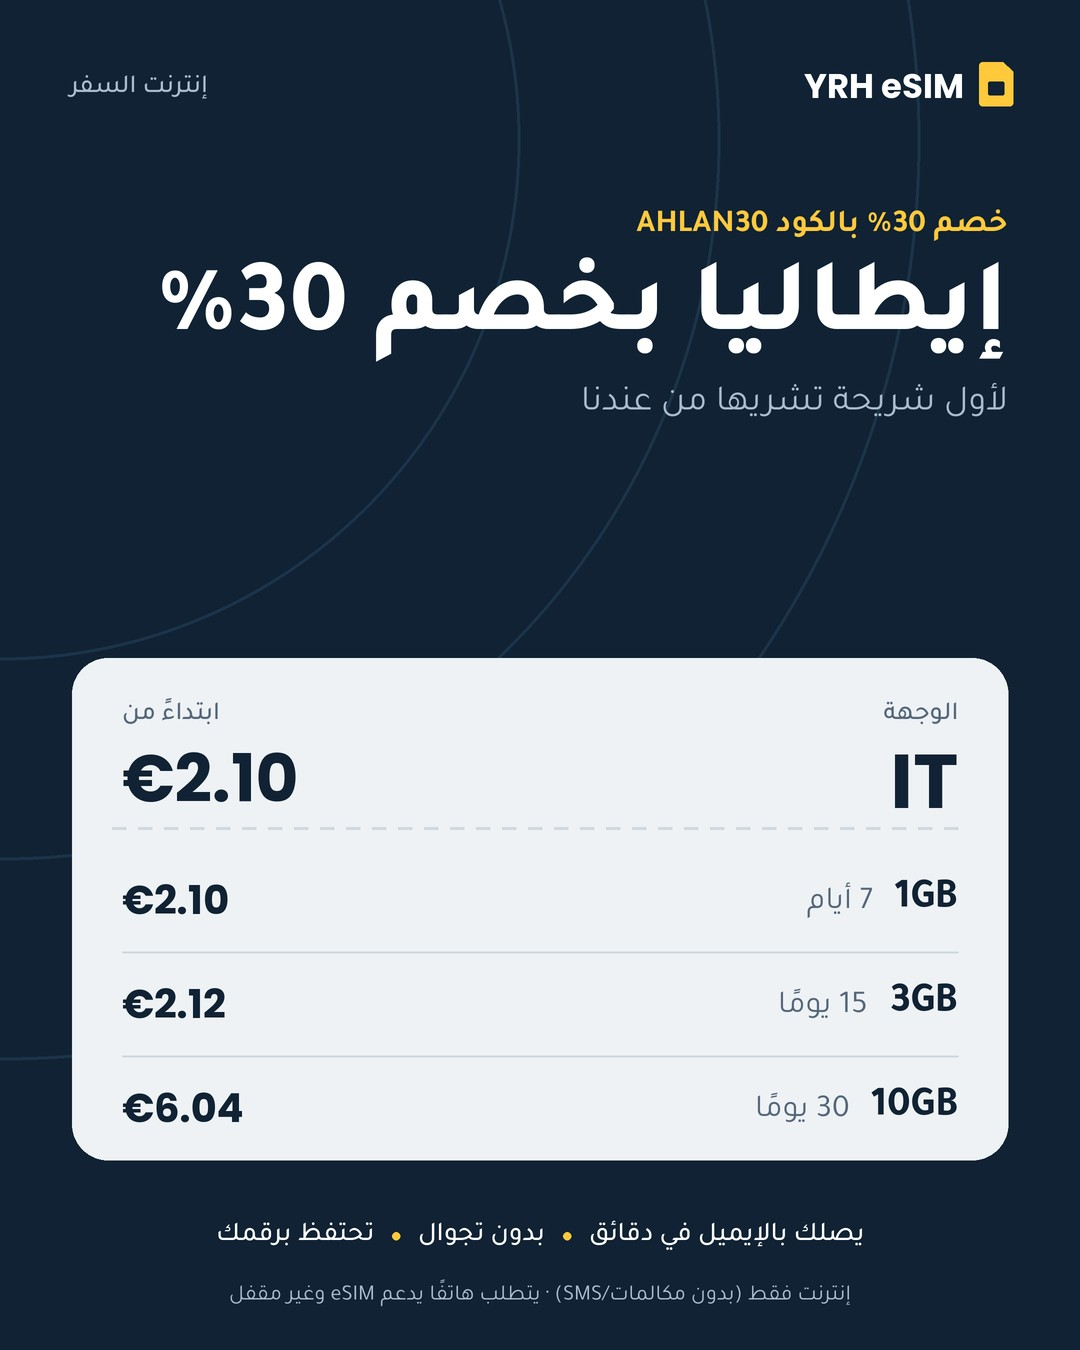
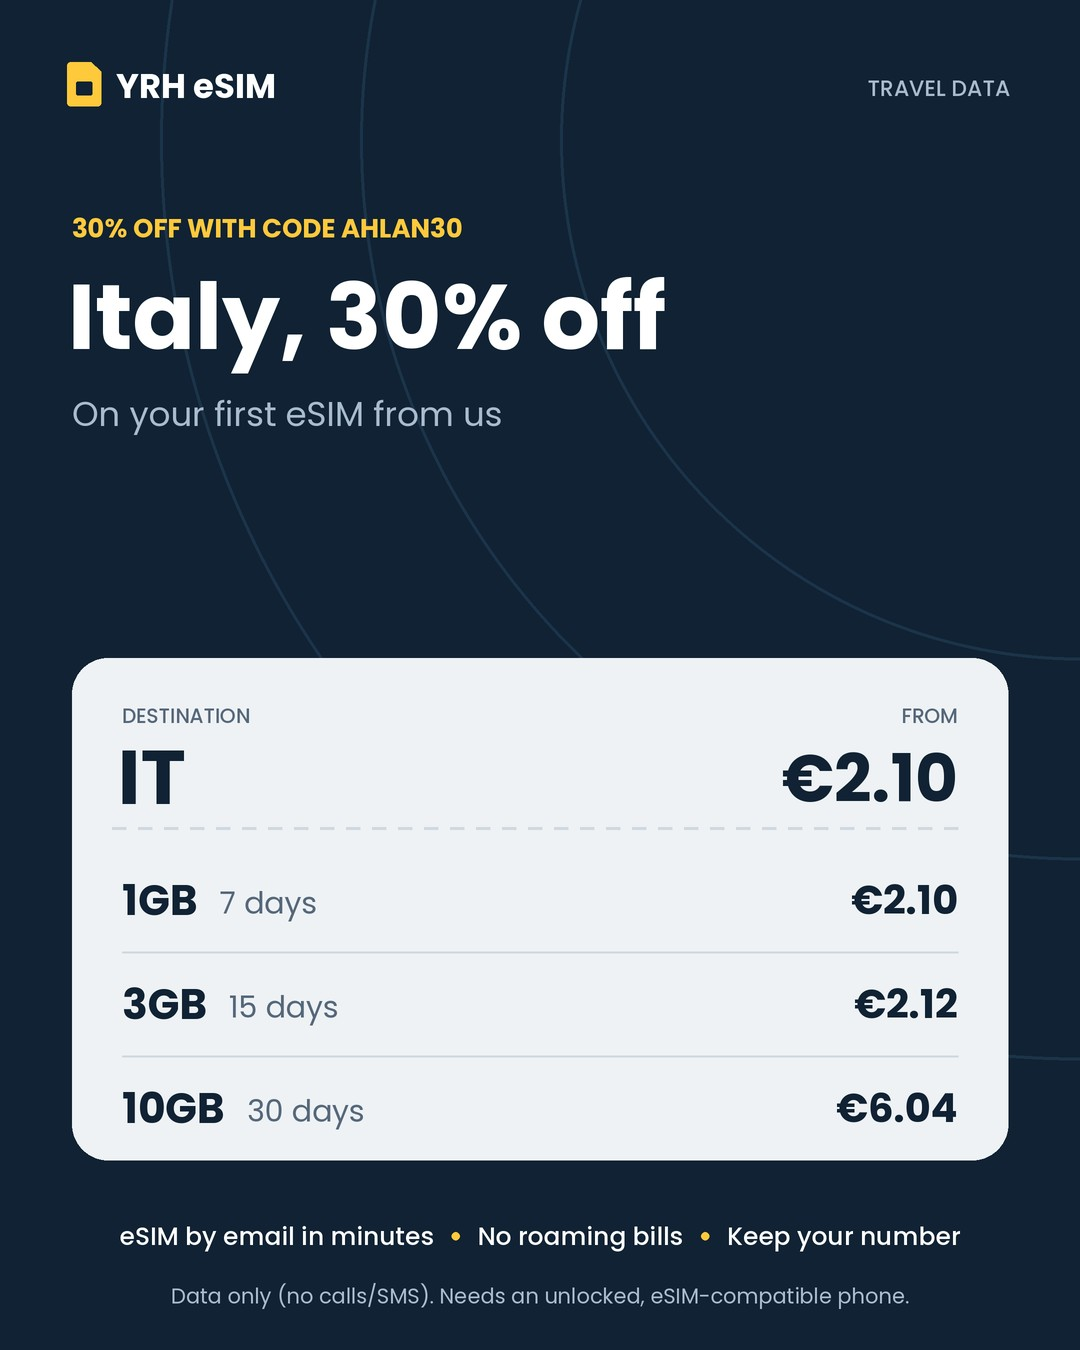
Switch remaining social posts (Oct 18 22:00 to Oct 26) to English
Claude-Session: https://claude.ai/code/session_01JBSgTFCFf4ru17KFUSM9zn

diff --git a/make_social_en.py b/make_social_en.py
@@ -1,0 +1,262 @@
+"""English social posts for YRH eSIM (replaces the remaining Arabic posts from Oct 18 22:00).
+Same 1080x1350 look as the Arabic set, left-to-right, Poppins.
+Files: social/YYYY-MM-DD-HH.jpg/.json (read by the Make "Social daily post" scenario).
+Run: python3 make_social_en.py"""
+from PIL import Image, ImageDraw, ImageFont
+import json, os
+
+HERE = os.path.dirname(os.path.abspath(__file__))
+F = '/usr/share/fonts/truetype/google-fonts/Poppins-%s.ttf'
+RAW = 'https://raw.githubusercontent.com/khaledkorichi34/yrh-esim-app-1/pinterest-assets/social/'
+SHOP = 'https://yrh.ai/products/'
+WA = '+34 642 377 474'
+OFFER = '🎁 30% off your first eSIM with code AHLAN30 (until Oct 31)'
+
+SS = 2
+W, H = 1080, 1350
+NAVY = (16, 34, 51)
+NAVY_SOFT = (27, 52, 74)
+YELLOW = (255, 201, 60)
+WHITE = (255, 255, 255)
+PAPER = (238, 242, 245)
+MUTED = (169, 188, 205)
+SLATE = (85, 103, 122)
+LINE = (208, 216, 224)
+
+
+def f(weight, size):
+    return ImageFont.truetype(F % weight, int(size * SS))
+
+
+def s(v):
+    return int(round(v * SS))
+
+
+def t(d, xy, txt, fnt, fill, anchor='la'):
+    d.text((s(xy[0]), s(xy[1])), txt, font=fnt, fill=fill, anchor=anchor)
+
+
+def tw(d, txt, fnt):
+    return d.textlength(txt, font=fnt) / SS
+
+
+def wrap(d, text, fnt, max_w):
+    words, lines, cur = text.split(), [], ''
+    for wd in words:
+        trial = (cur + ' ' + wd).strip()
+        if tw(d, trial, fnt) <= max_w or not cur:
+            cur = trial
+        else:
+            lines.append(cur)
+            cur = wd
+    if cur:
+        lines.append(cur)
+    return lines
+
+
+def sim(d, cx, cy, w):
+    cx, cy, w = s(cx), s(cy), s(w)
+    h = w * 1.28
+    x0, y0, x1, y1 = cx - w / 2, cy - h / 2, cx + w / 2, cy + h / 2
+    cut = w * 0.30
+    d.rounded_rectangle([x0, y0, x1, y1], radius=w * 0.10, fill=YELLOW)
+    d.polygon([(x1 - cut, y0 - 2), (x1 + 2, y0 - 2), (x1 + 2, y0 + cut)], fill=NAVY)
+    cw, ch = w * 0.46, w * 0.40
+    ccy = cy + h * 0.10
+    d.rounded_rectangle([cx - cw / 2, ccy - ch / 2, cx + cw / 2, ccy + ch / 2], radius=w * 0.05, fill=NAVY)
+
+
+def base():
+    img = Image.new('RGB', (W * SS, H * SS), NAVY)
+    d = ImageDraw.Draw(img)
+    for r in (520, 720, 920):
+        d.ellipse([s(W - r), s(-r + 140), s(W + r), s(r + 140)], outline=NAVY_SOFT, width=s(3))
+    sim(d, 84, 84, 34)
+    t(d, (116, 86), 'YRH eSIM', f('Bold', 34), WHITE, 'lm')
+    t(d, (W - 70, 88), 'TRAVEL DATA', f('Medium', 22), MUTED, 'rm')
+    return img, d
+
+
+def footer(d):
+    items = ['eSIM by email in minutes', 'No roaming bills', 'Keep your number']
+    fnt = f('Medium', 25)
+    gap = 44
+    widths = [tw(d, x, fnt) for x in items]
+    x = (W - sum(widths) - gap * (len(items) - 1)) / 2
+    for i, (txt, w) in enumerate(zip(items, widths)):
+        t(d, (x, 1236), txt, fnt, WHITE, 'lm')
+        x += w
+        if i < len(items) - 1:
+            cx = x + gap / 2
+            d.ellipse([s(cx - 4), s(1232), s(cx + 4), s(1240)], fill=YELLOW)
+            x += gap
+    t(d, (W / 2, 1296), 'Data only (no calls/SMS). Needs an unlocked, eSIM-compatible phone.', f('Regular', 21), MUTED, 'mm')
+
+
+def offer(kicker, title, sub, code, plans):
+    img, d = base()
+    L = 72
+    t(d, (L, 210), kicker.upper(), f('Bold', 26), YELLOW)
+    fnt = f('Bold', 92)
+    y = 252
+    for ln in wrap(d, title, fnt, W - 150):
+        t(d, (L - 4, y), ln, fnt, WHITE)
+        y += 104
+    y += 34
+    for ln in wrap(d, sub, f('Regular', 34), W - 150):
+        t(d, (L, y), ln, f('Regular', 34), MUTED)
+        y += 48
+    x0, x1, y1 = 72, W - 72, 1160
+    row_h = 104
+    y0 = y1 - 40 - row_h * len(plans) - 150
+    d.rounded_rectangle([s(x0), s(y0), s(x1), s(y1)], radius=s(36), fill=PAPER)
+    t(d, (x0 + 50, y0 + 44), 'DESTINATION', f('Medium', 20), SLATE)
+    t(d, (x0 + 46, y0 + 66), code, f('Bold', 76), NAVY)
+    t(d, (x1 - 50, y0 + 44), 'FROM', f('Medium', 20), SLATE, 'ra')
+    t(d, (x1 - 50, y0 + 74), '€' + plans[0][2], f('Bold', 66), NAVY, 'ra')
+    perf = y0 + 170
+    xx = x0 + 40
+    while xx < x1 - 40:
+        d.line([(s(xx), s(perf)), (s(xx + 14), s(perf))], fill=LINE, width=s(3))
+        xx += 26
+    ry = perf + 20
+    for i, (gb, days, price) in enumerate(plans):
+        cy = ry + row_h * i + row_h / 2
+        t(d, (x0 + 50, cy), gb, f('Bold', 42), NAVY, 'lm')
+        t(d, (x0 + 50 + tw(d, gb, f('Bold', 42)) + 22, cy + 3), days, f('Regular', 30), SLATE, 'lm')
+        t(d, (x1 - 50, cy), '€' + price, f('Bold', 40), NAVY, 'rm')
+        if i < len(plans) - 1:
+            d.line([(s(x0 + 50), s(cy + row_h / 2)), (s(x1 - 50), s(cy + row_h / 2))], fill=LINE, width=s(2))
+    footer(d)
+    return img
+
+
+def tip(kicker, title, points):
+    img, d = base()
+    L = 72
+    t(d, (L, 210), kicker.upper(), f('Bold', 26), YELLOW)
+    fnt = f('Bold', 80)
+    y = 252
+    for ln in wrap(d, title, fnt, W - 150):
+        t(d, (L - 4, y), ln, fnt, WHITE)
+        y += 92
+    y += 46
+    x0, x1 = 72, W - 72
+    box_h = min(190, (1170 - y - 20 * (len(points) - 1)) / len(points))
+    for i, p in enumerate(points):
+        d.rounded_rectangle([s(x0), s(y), s(x1), s(y + box_h)], radius=s(30), fill=PAPER)
+        cy = y + box_h / 2
+        d.ellipse([s(x0 + 44), s(cy - 42), s(x0 + 128), s(cy + 42)], fill=NAVY)
+        t(d, (x0 + 86, cy + 2), str(i + 1), f('Bold', 42), YELLOW, 'mm')
+        pf = f('Medium', 32)
+        lines = wrap(d, p, pf, x1 - x0 - 200)
+        ly = cy - (len(lines) - 1) * 22
+        for ln in lines:
+            t(d, (x0 + 160, ly), ln, pf, NAVY, 'lm')
+            ly += 44
+        y += box_h + 20
+    footer(d)
+    return img
+
+
+TAGS_IG = '#eSIM #travelesim #esimtravel #traveltips #Algeria #Morocco #Tunisia #Spain #roaming #travelhacks'
+TAGS_FB = '#eSIM #travelesim #traveltips #roaming'
+
+
+def caption(body, handle):
+    body = body + '\n\n' + OFFER
+    link = SHOP + handle if handle else 'https://yrh.ai'
+    ig = body + '\n\n🔗 Link in bio · 💬 WhatsApp ' + WA + '\n\n' + TAGS_IG
+    fb = body + '\n\n🛒 ' + link + '\n💬 WhatsApp ' + WA + '\n\n' + TAGS_FB
+    return ig, fb
+
+
+def save(stem, name, img, body, handle=None):
+    ig, fb = caption(body, handle)
+    out = os.path.join(HERE, 'social')
+    img.resize((W, H), Image.LANCZOS).save(os.path.join(out, stem + '.jpg'), quality=90)
+    with open(os.path.join(out, stem + '.json'), 'w', encoding='utf-8') as fh:
+        json.dump({'date': stem[:10], 'name': name, 'image': RAW + stem + '.jpg', 'ig': ig, 'fb': fb},
+                  fh, ensure_ascii=False, indent=1)
+    print(stem, name)
+
+
+def plan_lines(plans):
+    return '\n'.join('• %s · %s · €%s' % p for p in plans)
+
+
+def O(stem, name, handle, kicker, title, sub, code, plans, intro):
+    body = intro + '\n\n' + plan_lines(plans) + '\n\neSIM by email in minutes · Keep your number · Data only'
+    save(stem, name, offer(kicker, title, sub, code, plans), body, handle)
+
+
+def T(stem, name, kicker, title, points, intro, handle=None, numbered=True):
+    mark = (lambda i: '%d. ' % (i + 1)) if numbered else (lambda i: '• ')
+    body = intro + '\n\n' + '\n'.join(mark(i) + p for i, p in enumerate(points))
+    save(stem, name, tip(kicker, title, points), body, handle)
+
+
+def promo(stem, name, handle, title, sub, code, plans, intro):
+    off = [(gb, d, '%.2f' % (float(p) * 0.7)) for gb, d, p in plans]
+    lines = '\n'.join('• %s · %s · €%s → about €%s with AHLAN30' % (gb, d, p, o[2]) for (gb, d, p), o in zip(plans, off))
+    body = intro + '\n\n' + lines + '\n\nDiscounted prices are approximate and shown at checkout with the code.'
+    save(stem, name, offer('30% off with code AHLAN30', title, sub, code, off), body, handle)
+
+
+DAYS7, DAYS15, DAYS30 = '7 days', '15 days', '30 days'
+DZ_LONG = [('3GB', DAYS30, '5.57'), ('5GB', DAYS30, '8.73'), ('10GB', DAYS30, '15.33')]
+FR = [('1GB', DAYS7, '3.00'), ('3GB', DAYS15, '3.43'), ('10GB', DAYS30, '9.48')]
+IT = [('1GB', DAYS7, '3.00'), ('3GB', DAYS15, '3.03'), ('10GB', DAYS30, '8.63')]
+MA30 = [('1GB', DAYS7, '3.00'), ('3GB', DAYS30, '6.74'), ('5GB', DAYS30, '10.12')]
+TN30 = [('3GB', DAYS30, '5.45'), ('5GB', DAYS30, '8.53'), ('10GB', DAYS30, '15.57')]
+ES = [('1GB', DAYS7, '3.00'), ('3GB', DAYS15, '3.03'), ('10GB', DAYS30, '8.63')]
+
+
+def build():
+    # Oct 18, 22:00
+    T('2026-10-18-22', 'Android install', 'For Android users', 'Install an eSIM on Android',
+      ['Settings > Connections > SIM manager', 'Add eSIM > scan the QR code from your email',
+       'When you land, set it as your mobile data line'],
+      'Samsung or another Android phone? Here is how 👇', 'dz_package')
+    # Oct 19
+    T('2026-10-19-09', 'Question', 'Question of the day', 'When is your next trip?',
+      ['This month', 'Over the winter holidays', 'Next summer'],
+      'Quick question 👇 When are you travelling next? Reply with the number in the comments.')
+    T('2026-10-19-11', 'WhatsApp', 'Most asked question', 'Will WhatsApp keep my number?',
+      ['Yes. The eSIM is for data only, WhatsApp stays on your number',
+       'Your main SIM stays in the phone for bank codes',
+       'Call and message family on WhatsApp as usual'],
+      'The question we get the most 👇 Your number does not change.', 'dz_package', numbered=False)
+    T('2026-10-19-15', 'Buy early', 'Travel tip', 'Buy your eSIM a few days before',
+      ['Most plans start counting when you first connect abroad',
+       'Installing early avoids airport Wi-Fi trouble', 'Check the activation window on the plan page'],
+      'A tip so you are not stuck at the airport 👇', 'dz_package', numbered=False)
+    promo('2026-10-19-19', 'Promo Italy', 'it_package', 'Italy, 30% off', 'On your first eSIM from us', 'IT', IT,
+          'Travelling to Italy 🇮🇹? Your first eSIM is 30% off with code AHLAN30.')
+    T('2026-10-19-22', 'Contact', 'Talk to us', 'Questions? We are here',
+      ['WhatsApp ' + WA, 'Reply to any email from our store', 'Visit yrh.ai'],
+      'Any question before you buy? Message us 👇', 'dz_package', numbered=False)
+    # Oct 20 - 26, 11:00
+    O('2026-10-20-11', 'France', 'fr_package', 'Visiting France?', 'France data from the moment you land',
+      'Prepaid plans from €3', 'FR', FR, 'Travelling to France 🇫🇷 for family or work? Set up your data before you fly and skip roaming bills.')
+    O('2026-10-21-11', 'Algeria long stay', 'dz_package', 'Long stay back home?', 'Algeria plans for a whole month',
+      'For long holidays and summer visits', 'DZ', DZ_LONG,
+      'Going to Algeria 🇩🇿 for a while? 30-day plans for maps, WhatsApp and video calls with the family.')
+    O('2026-10-22-11', 'Italy', 'it_package', 'Trip to Italy?', 'Italy data at a light price',
+      'Prepaid eSIM, sent by email', 'IT', IT, 'Travelling to Italy 🇮🇹? Get your eSIM before you fly and be online when you land.')
+    T('2026-10-23-11', 'How it works', 'How it works', 'Travel data in 3 steps',
+      ['Pick your destination and a data plan', 'Your eSIM arrives by email, usually within minutes',
+       'Scan the QR code and go online when you land'],
+      'No shop, no plastic SIM, no waiting 👇')
+    O('2026-10-24-11', 'Morocco 30 days', 'ma_package', 'Longer stay in Morocco?', 'Morocco plans for your stay',
+      'From one week to a full month', 'MA', MA30, 'One week or one month in Morocco 🇲🇦? Pick the plan that fits your stay.')
+    T('2026-10-25-11', 'Dual SIM', 'Important tip', 'Keep your main SIM switched on',
+      ['Use the eSIM for mobile data only', 'Keep your main SIM to receive bank verification codes',
+       'Turn off data roaming on your main SIM to avoid charges'],
+      'Get your bank codes without paying for roaming 👇', 'dz_package')
+    O('2026-10-26-11', 'Tunisia 30 days', 'tn_package', 'Tunisia this winter?', 'Tunisia data for your holiday',
+      'Prepaid plans, no surprises', 'TN', TN30, 'Winter holiday in Tunisia 🇹🇳? Pick a 30-day plan and stay online the whole trip.')
+
+
+if __name__ == '__main__':
+    build()
